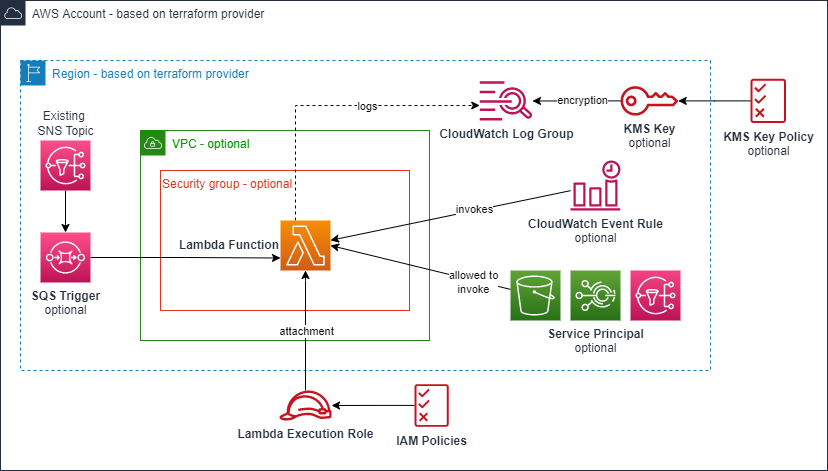
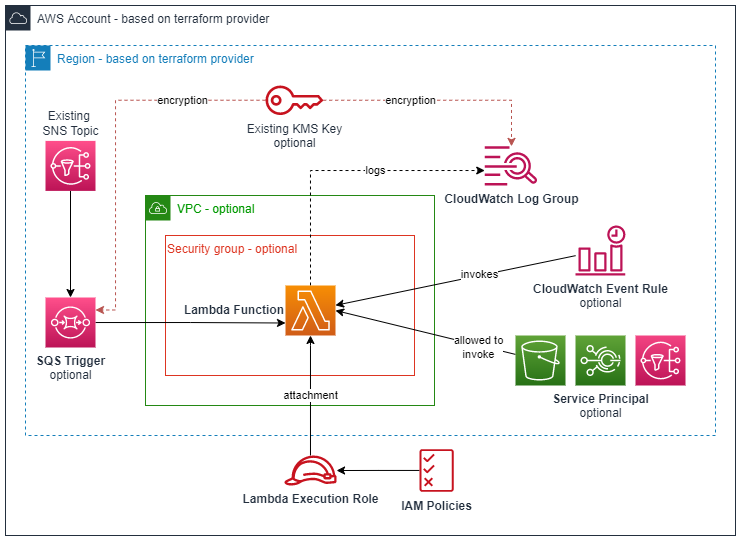
feat: enable xray tracing for lambda functions and implement tfsec best practices
* fix(tracing): add permissions to allow lambda to send traces to xray

* fix(encryption): use kms key to encrytp logs aswell as sqs queue

* fix(tracing): enable tracing policy in exec role submodule if a tracing mode is set

* fix: implementing tfsec recommendations

* implement kms key in sns example

* activate tracing in example

* set enable_encryption = true in sns example

* update arch diagram

* style(terraform fmt): format code

* docs(terraform-docs): update readme

* style(terraform fmt): format code

Changed region(s): [[0.0, 0.0, 1.0, 1.0], [0.2794, 0.8025, 0.6518, 0.9512], [0.3414, 0.1486, 0.4656, 0.2972]]

diff --git a/modules/execution-role/README.md b/modules/execution-role/README.md
@@ -66,11 +66,14 @@ No modules.
 |------|------|
 | [aws_iam_role.lambda](https://registry.terraform.io/providers/hashicorp/aws/latest/docs/resources/iam_role) | resource |
 | [aws_iam_role_policy.lambda_logs](https://registry.terraform.io/providers/hashicorp/aws/latest/docs/resources/iam_role_policy) | resource |
+| [aws_iam_role_policy.sqs_kms](https://registry.terraform.io/providers/hashicorp/aws/latest/docs/resources/iam_role_policy) | resource |
 | [aws_iam_role_policy.sqs_trigger](https://registry.terraform.io/providers/hashicorp/aws/latest/docs/resources/iam_role_policy) | resource |
+| [aws_iam_role_policy_attachment.aws_xray_write_only_access](https://registry.terraform.io/providers/hashicorp/aws/latest/docs/resources/iam_role_policy_attachment) | resource |
 | [aws_iam_role_policy_attachment.lambda](https://registry.terraform.io/providers/hashicorp/aws/latest/docs/resources/iam_role_policy_attachment) | resource |
 | [aws_caller_identity.current](https://registry.terraform.io/providers/hashicorp/aws/latest/docs/data-sources/caller_identity) | data source |
 | [aws_iam_policy_document.lambda](https://registry.terraform.io/providers/hashicorp/aws/latest/docs/data-sources/iam_policy_document) | data source |
 | [aws_iam_policy_document.lambda_logs](https://registry.terraform.io/providers/hashicorp/aws/latest/docs/data-sources/iam_policy_document) | data source |
+| [aws_iam_policy_document.sqs_kms](https://registry.terraform.io/providers/hashicorp/aws/latest/docs/data-sources/iam_policy_document) | data source |
 | [aws_iam_policy_document.sqs_trigger](https://registry.terraform.io/providers/hashicorp/aws/latest/docs/data-sources/iam_policy_document) | data source |
 | [aws_iam_role.external_execution](https://registry.terraform.io/providers/hashicorp/aws/latest/docs/data-sources/iam_role) | data source |
 | [aws_region.current](https://registry.terraform.io/providers/hashicorp/aws/latest/docs/data-sources/region) | data source |
@@ -81,10 +84,12 @@ No modules.
 |------|-------------|------|---------|:--------:|
 | <a name="input_iam_execution_role_name"></a> [iam\_execution\_role\_name](#input\_iam\_execution\_role\_name) | Friendly name of the lambda execution role. | `string` | n/a | yes |
 | <a name="input_create_execution_role"></a> [create\_execution\_role](#input\_create\_execution\_role) | Controls if IAM execution role resources should be created. | `bool` | `true` | no |
+| <a name="input_enable_tracing"></a> [enable\_tracing](#input\_enable\_tracing) | If true permissons for aws x ray will be added | `bool` | `true` | no |
 | <a name="input_iam_execution_policy_arns"></a> [iam\_execution\_policy\_arns](#input\_iam\_execution\_policy\_arns) | List of optional additional execution policy statement ARNs outside this module to attach to IAM Lambda execution role. | `list(string)` | `[]` | no |
 | <a name="input_iam_execution_role_external_name"></a> [iam\_execution\_role\_external\_name](#input\_iam\_execution\_role\_external\_name) | Name of an optional external IAM execution role outside this module. If create\_execution\_role is false, this value is required. | `string` | `null` | no |
 | <a name="input_iam_execution_role_path"></a> [iam\_execution\_role\_path](#input\_iam\_execution\_role\_path) | Path of the IAM role. | `string` | `null` | no |
 | <a name="input_iam_execution_role_permissions_boundary_arn"></a> [iam\_execution\_role\_permissions\_boundary\_arn](#input\_iam\_execution\_role\_permissions\_boundary\_arn) | ARN of the policy that is used to set the permissions boundary for the role. | `string` | `null` | no |
+| <a name="input_kms_key_arn"></a> [kms\_key\_arn](#input\_kms\_key\_arn) | ARN of the kms key used to encrypt logs and sqs messages | `string` | `null` | no |
 | <a name="input_lambda_loggroup_name"></a> [lambda\_loggroup\_name](#input\_lambda\_loggroup\_name) | Name of cloudwatch loggroup for lambda logging | `string` | `"*"` | no |
 | <a name="input_resource_name_suffix"></a> [resource\_name\_suffix](#input\_resource\_name\_suffix) | Alphanumeric suffix for all the resource names in this module. | `string` | `""` | no |
 | <a name="input_resource_tags"></a> [resource\_tags](#input\_resource\_tags) | A map of tags to assign to the resources in this module. | `map(string)` | `{}` | no |
@@ -158,11 +163,14 @@ No modules.
 |------|------|
 | [aws_iam_role.lambda](https://registry.terraform.io/providers/hashicorp/aws/latest/docs/resources/iam_role) | resource |
 | [aws_iam_role_policy.lambda_logs](https://registry.terraform.io/providers/hashicorp/aws/latest/docs/resources/iam_role_policy) | resource |
+| [aws_iam_role_policy.sqs_kms](https://registry.terraform.io/providers/hashicorp/aws/latest/docs/resources/iam_role_policy) | resource |
 | [aws_iam_role_policy.sqs_trigger](https://registry.terraform.io/providers/hashicorp/aws/latest/docs/resources/iam_role_policy) | resource |
+| [aws_iam_role_policy_attachment.aws_xray_write_only_access](https://registry.terraform.io/providers/hashicorp/aws/latest/docs/resources/iam_role_policy_attachment) | resource |
 | [aws_iam_role_policy_attachment.lambda](https://registry.terraform.io/providers/hashicorp/aws/latest/docs/resources/iam_role_policy_attachment) | resource |
 | [aws_caller_identity.current](https://registry.terraform.io/providers/hashicorp/aws/latest/docs/data-sources/caller_identity) | data source |
 | [aws_iam_policy_document.lambda](https://registry.terraform.io/providers/hashicorp/aws/latest/docs/data-sources/iam_policy_document) | data source |
 | [aws_iam_policy_document.lambda_logs](https://registry.terraform.io/providers/hashicorp/aws/latest/docs/data-sources/iam_policy_document) | data source |
+| [aws_iam_policy_document.sqs_kms](https://registry.terraform.io/providers/hashicorp/aws/latest/docs/data-sources/iam_policy_document) | data source |
 | [aws_iam_policy_document.sqs_trigger](https://registry.terraform.io/providers/hashicorp/aws/latest/docs/data-sources/iam_policy_document) | data source |
 | [aws_iam_role.external_execution](https://registry.terraform.io/providers/hashicorp/aws/latest/docs/data-sources/iam_role) | data source |
 | [aws_region.current](https://registry.terraform.io/providers/hashicorp/aws/latest/docs/data-sources/region) | data source |
@@ -173,10 +181,13 @@ No modules.
 |------|-------------|------|---------|:--------:|
 | <a name="input_iam_execution_role_name"></a> [iam\_execution\_role\_name](#input\_iam\_execution\_role\_name) | Friendly name of the lambda execution role. | `string` | n/a | yes |
 | <a name="input_create_execution_role"></a> [create\_execution\_role](#input\_create\_execution\_role) | Controls if IAM execution role resources should be created. | `bool` | `true` | no |
+| <a name="input_enable_encryption"></a> [enable\_encryption](#input\_enable\_encryption) | If true permissons for kms policies will be attached to the execution role. Requires kms\_key\_arn. | `bool` | `true` | no |
+| <a name="input_enable_tracing"></a> [enable\_tracing](#input\_enable\_tracing) | If true permissons for aws x ray will be added | `bool` | `true` | no |
 | <a name="input_iam_execution_policy_arns"></a> [iam\_execution\_policy\_arns](#input\_iam\_execution\_policy\_arns) | List of optional additional execution policy statement ARNs outside this module to attach to IAM Lambda execution role. | `list(string)` | `[]` | no |
 | <a name="input_iam_execution_role_external_name"></a> [iam\_execution\_role\_external\_name](#input\_iam\_execution\_role\_external\_name) | Name of an optional external IAM execution role outside this module. If create\_execution\_role is false, this value is required. | `string` | `null` | no |
 | <a name="input_iam_execution_role_path"></a> [iam\_execution\_role\_path](#input\_iam\_execution\_role\_path) | Path of the IAM role. | `string` | `null` | no |
 | <a name="input_iam_execution_role_permissions_boundary_arn"></a> [iam\_execution\_role\_permissions\_boundary\_arn](#input\_iam\_execution\_role\_permissions\_boundary\_arn) | ARN of the policy that is used to set the permissions boundary for the role. | `string` | `null` | no |
+| <a name="input_kms_key_arn"></a> [kms\_key\_arn](#input\_kms\_key\_arn) | ARN of the kms key used to encrypt logs and sqs messages | `string` | `null` | no |
 | <a name="input_lambda_loggroup_name"></a> [lambda\_loggroup\_name](#input\_lambda\_loggroup\_name) | Name of cloudwatch loggroup for lambda logging | `string` | `"*"` | no |
 | <a name="input_resource_name_suffix"></a> [resource\_name\_suffix](#input\_resource\_name\_suffix) | Alphanumeric suffix for all the resource names in this module. | `string` | `""` | no |
 | <a name="input_resource_tags"></a> [resource\_tags](#input\_resource\_tags) | A map of tags to assign to the resources in this module. | `map(string)` | `{}` | no |

diff --git a/README.md b/README.md
@@ -30,7 +30,23 @@
 <!-- USAGE -->
 ## Usage
 
-### Lambda Function with local package
+### Lambda Function with local package and enabled tracing
+```hcl
+module "lambda" {
+  source  = "nuvibit/lambda/aws"
+  version = "~> 1.0"
+
+  function_name      = "my_lambda"
+  description        = "my lambda function"
+  handler            = "main.lambda_handler"
+  runtime            = "python3.9"
+  local_package_path = "../my_lambda.zip"
+  tracing_mode         = "Active"
+}
+
+```
+
+### Lambda Function with encrypted SQS trigger and encrypted lambda logs
 ```hcl
 module "lambda" {
   source  = "nuvibit/lambda/aws"
@@ -42,11 +58,14 @@ module "lambda" {
   runtime            = "python3.9"
   local_package_path = "../my_lambda.zip"
 
-  resource_tags = {
-    CostCenter = "project-1"
-  }
+  enable_encryption    = true
+  kms_key_arn          = aws_kms_key.example.arn
+
+  trigger_sqs_enabled = true
 }
+
 ```
+If you want to enable encryption you have to set enable_encryption to true and provide a kms_key_arn.
 
 ### Lambda Function in VPC
 ```hcl
@@ -149,6 +168,7 @@ module "lambda_vpc" {
 | <a name="input_function_name"></a> [function\_name](#input\_function\_name) | Unique name for your Lambda Function. | `string` | n/a | yes |
 | <a name="input_create_execution_role"></a> [create\_execution\_role](#input\_create\_execution\_role) | Controls if IAM execution role should be created. If set to false an iam execute role ARN for 'iam\_execution\_role\_external\_arn' needs to be provided. | `bool` | `true` | no |
 | <a name="input_description"></a> [description](#input\_description) | Description of what your Lambda Function does. | `string` | `""` | no |
+| <a name="input_enable_encryption"></a> [enable\_encryption](#input\_enable\_encryption) | If true permissons for kms policies will be attached to the execution role. Requires kms\_key\_arn to be set. | `bool` | `false` | no |
 | <a name="input_environment_variables"></a> [environment\_variables](#input\_environment\_variables) | Map of environment variables that are accessible from the function code during execution. | `map(string)` | `{}` | no |
 | <a name="input_event_patterns"></a> [event\_patterns](#input\_event\_patterns) | A List of event patterns described as JSON objects. | `list(string)` | `[]` | no |
 | <a name="input_file_system_config_arn"></a> [file\_system\_config\_arn](#input\_file\_system\_config\_arn) | Amazon Resource Name (ARN) of the Amazon EFS Access Point that provides access to the file system. | `string` | `null` | no |
@@ -159,9 +179,9 @@ module "lambda_vpc" {
 | <a name="input_iam_execution_role_name"></a> [iam\_execution\_role\_name](#input\_iam\_execution\_role\_name) | Friendly name of the lambda execution role. If omitted, will be generated with function name. | `string` | `null` | no |
 | <a name="input_iam_execution_role_path"></a> [iam\_execution\_role\_path](#input\_iam\_execution\_role\_path) | Path of the IAM role. | `string` | `null` | no |
 | <a name="input_iam_execution_role_permissions_boundary_arn"></a> [iam\_execution\_role\_permissions\_boundary\_arn](#input\_iam\_execution\_role\_permissions\_boundary\_arn) | ARN of the policy that is used to set the permissions boundary for the role. | `string` | `null` | no |
+| <a name="input_kms_key_arn"></a> [kms\_key\_arn](#input\_kms\_key\_arn) | KMS Key to be used to encrypt logs and if enabled, sqs messages. requires enable\_encryption to be true. | `string` | `null` | no |
 | <a name="input_layers"></a> [layers](#input\_layers) | List of Lambda Layer Version ARNs (maximum of 5) to attach to your Lambda Function. | `list(string)` | `null` | no |
 | <a name="input_local_package_path"></a> [local\_package\_path](#input\_local\_package\_path) | Will be deprecated. Path to the function's deployment package within the local filesystem. | `string` | `null` | no |
-| <a name="input_log_kms_key_arn"></a> [log\_kms\_key\_arn](#input\_log\_kms\_key\_arn) | The ARN of the KMS Key to use when encrypting log data. <br>Please note, after the AWS KMS CMK is disassociated from the log group, AWS CloudWatch Logs stops encrypting newly ingested data for the log group. <br>All previously ingested data remains encrypted, and AWS CloudWatch Logs requires permissions for the CMK whenever the encrypted data is requested. | `string` | `null` | no |
 | <a name="input_log_retention_in_days"></a> [log\_retention\_in\_days](#input\_log\_retention\_in\_days) | Specifies the number of days you want to retain log events in the specified log group. | `number` | `null` | no |
 | <a name="input_memory_size"></a> [memory\_size](#input\_memory\_size) | Amount of memory in MB your Lambda Function can use at runtime. | `number` | `128` | no |
 | <a name="input_package_source_path"></a> [package\_source\_path](#input\_package\_source\_path) | Path to the function's code to create the deployment package. | `string` | `null` | no |
